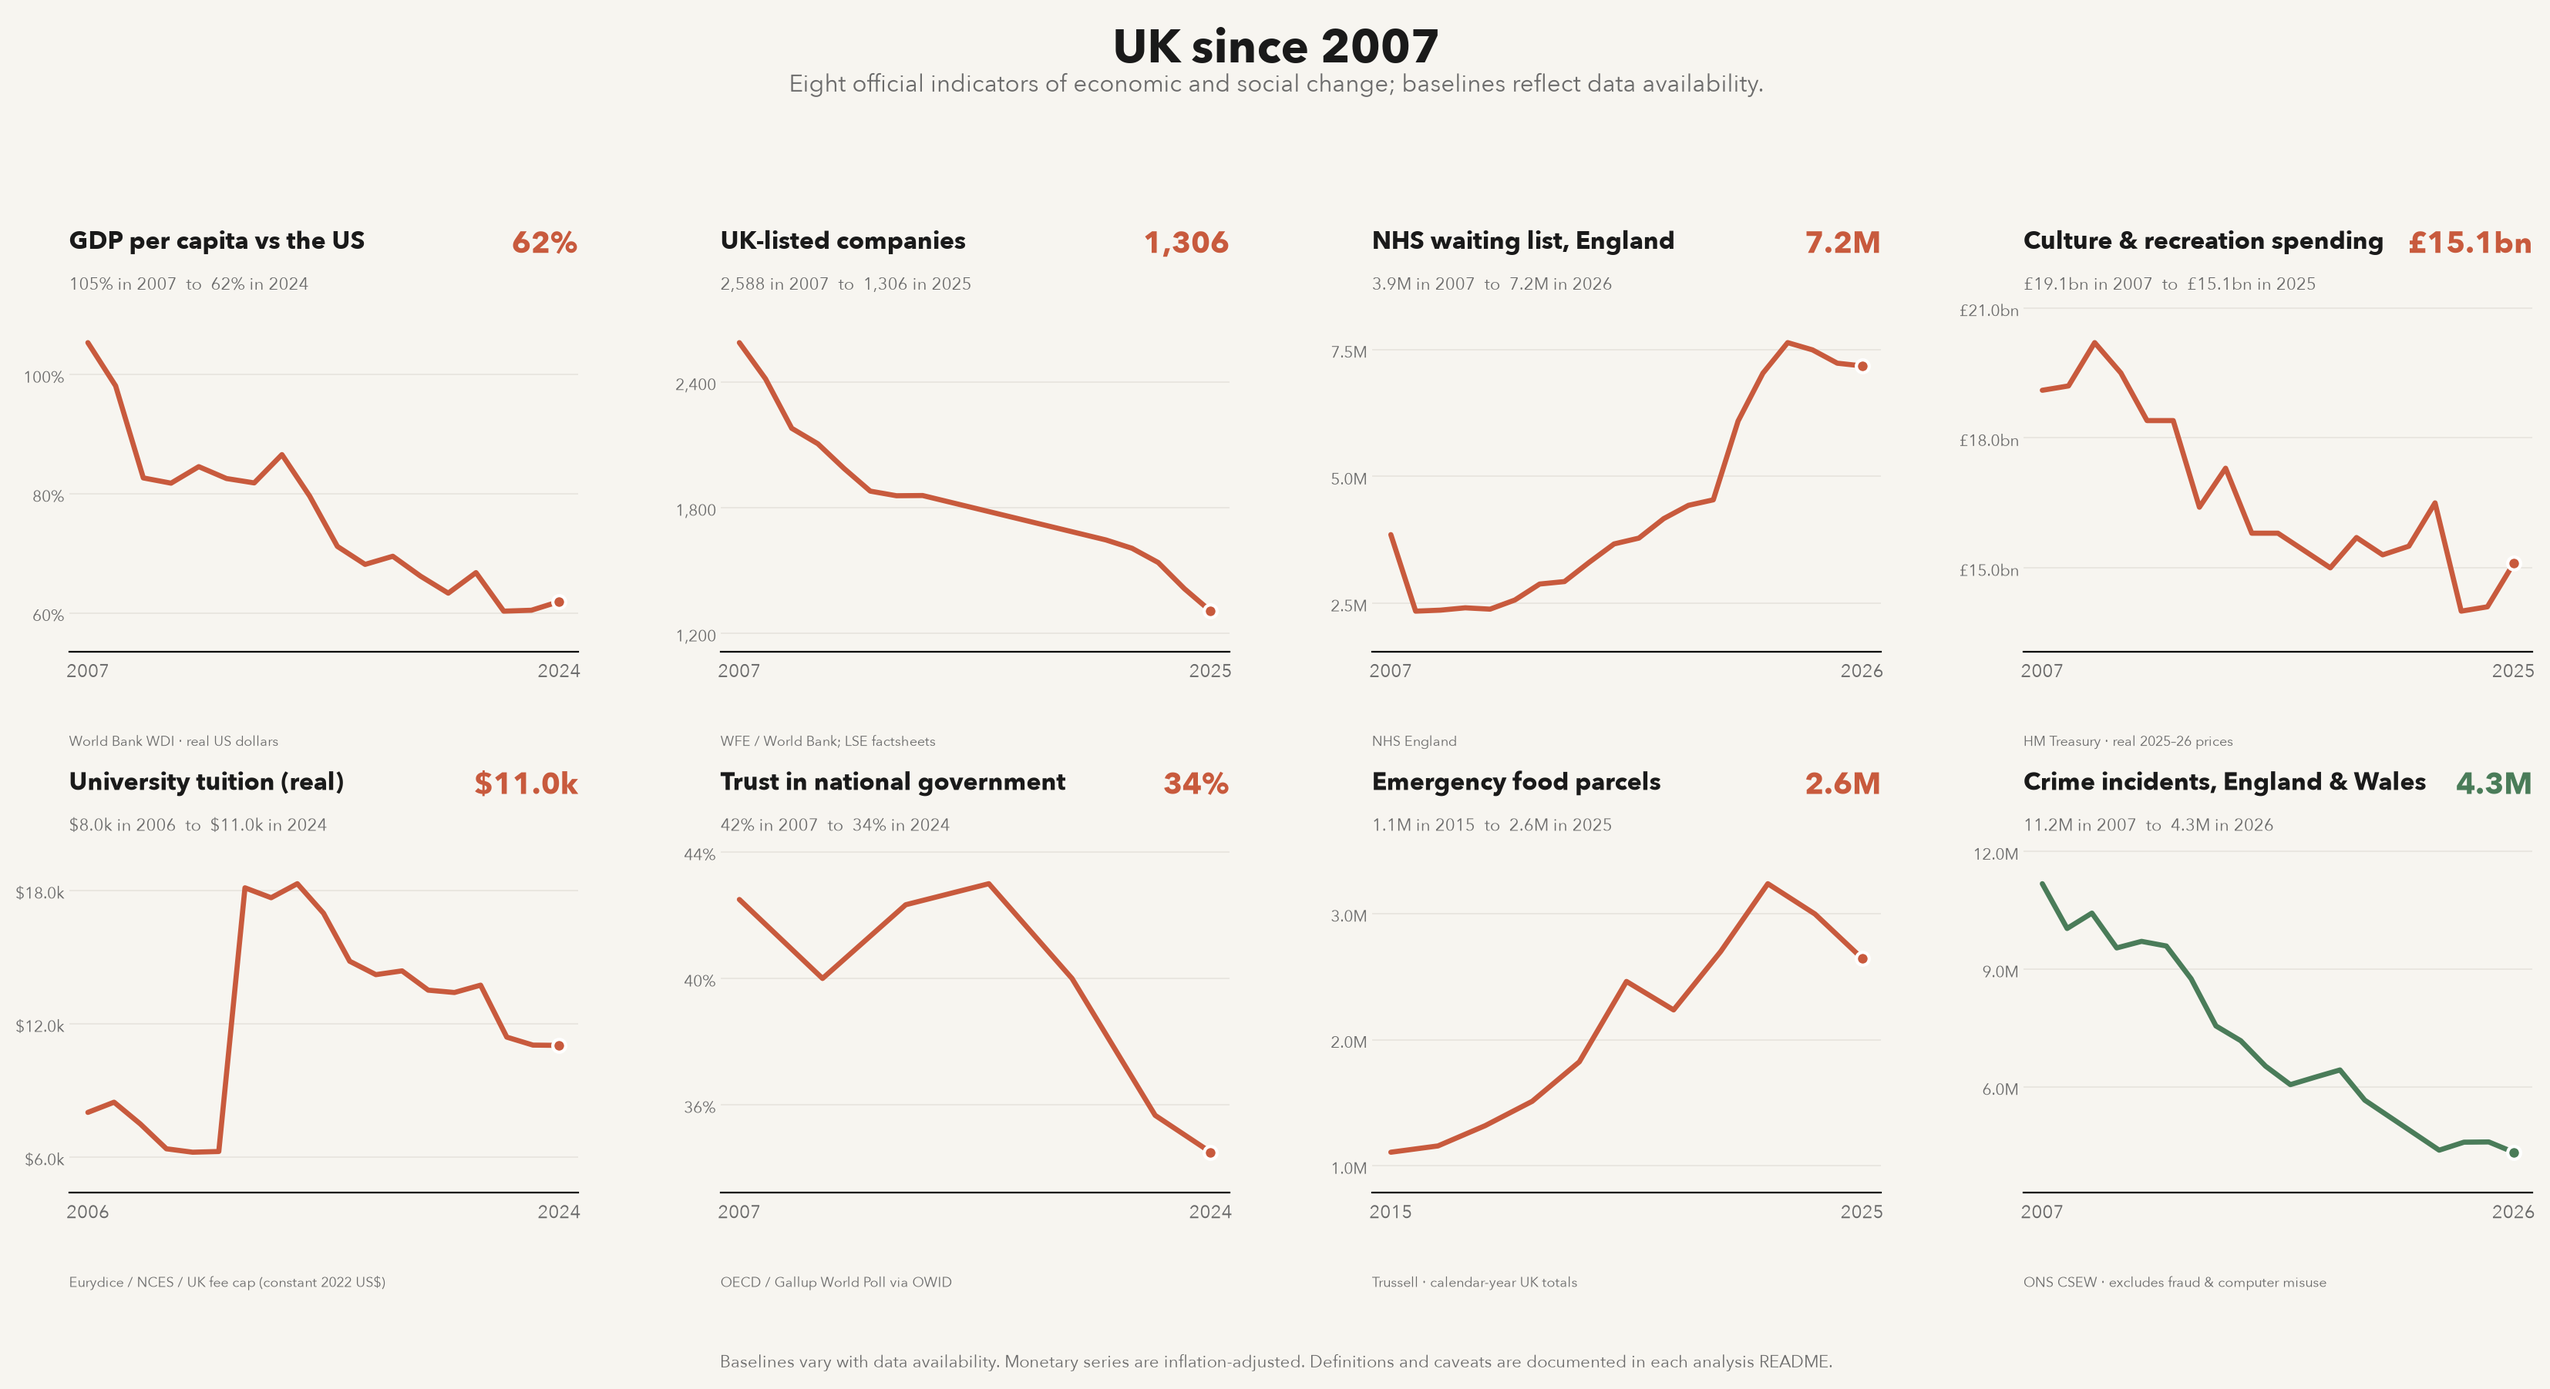
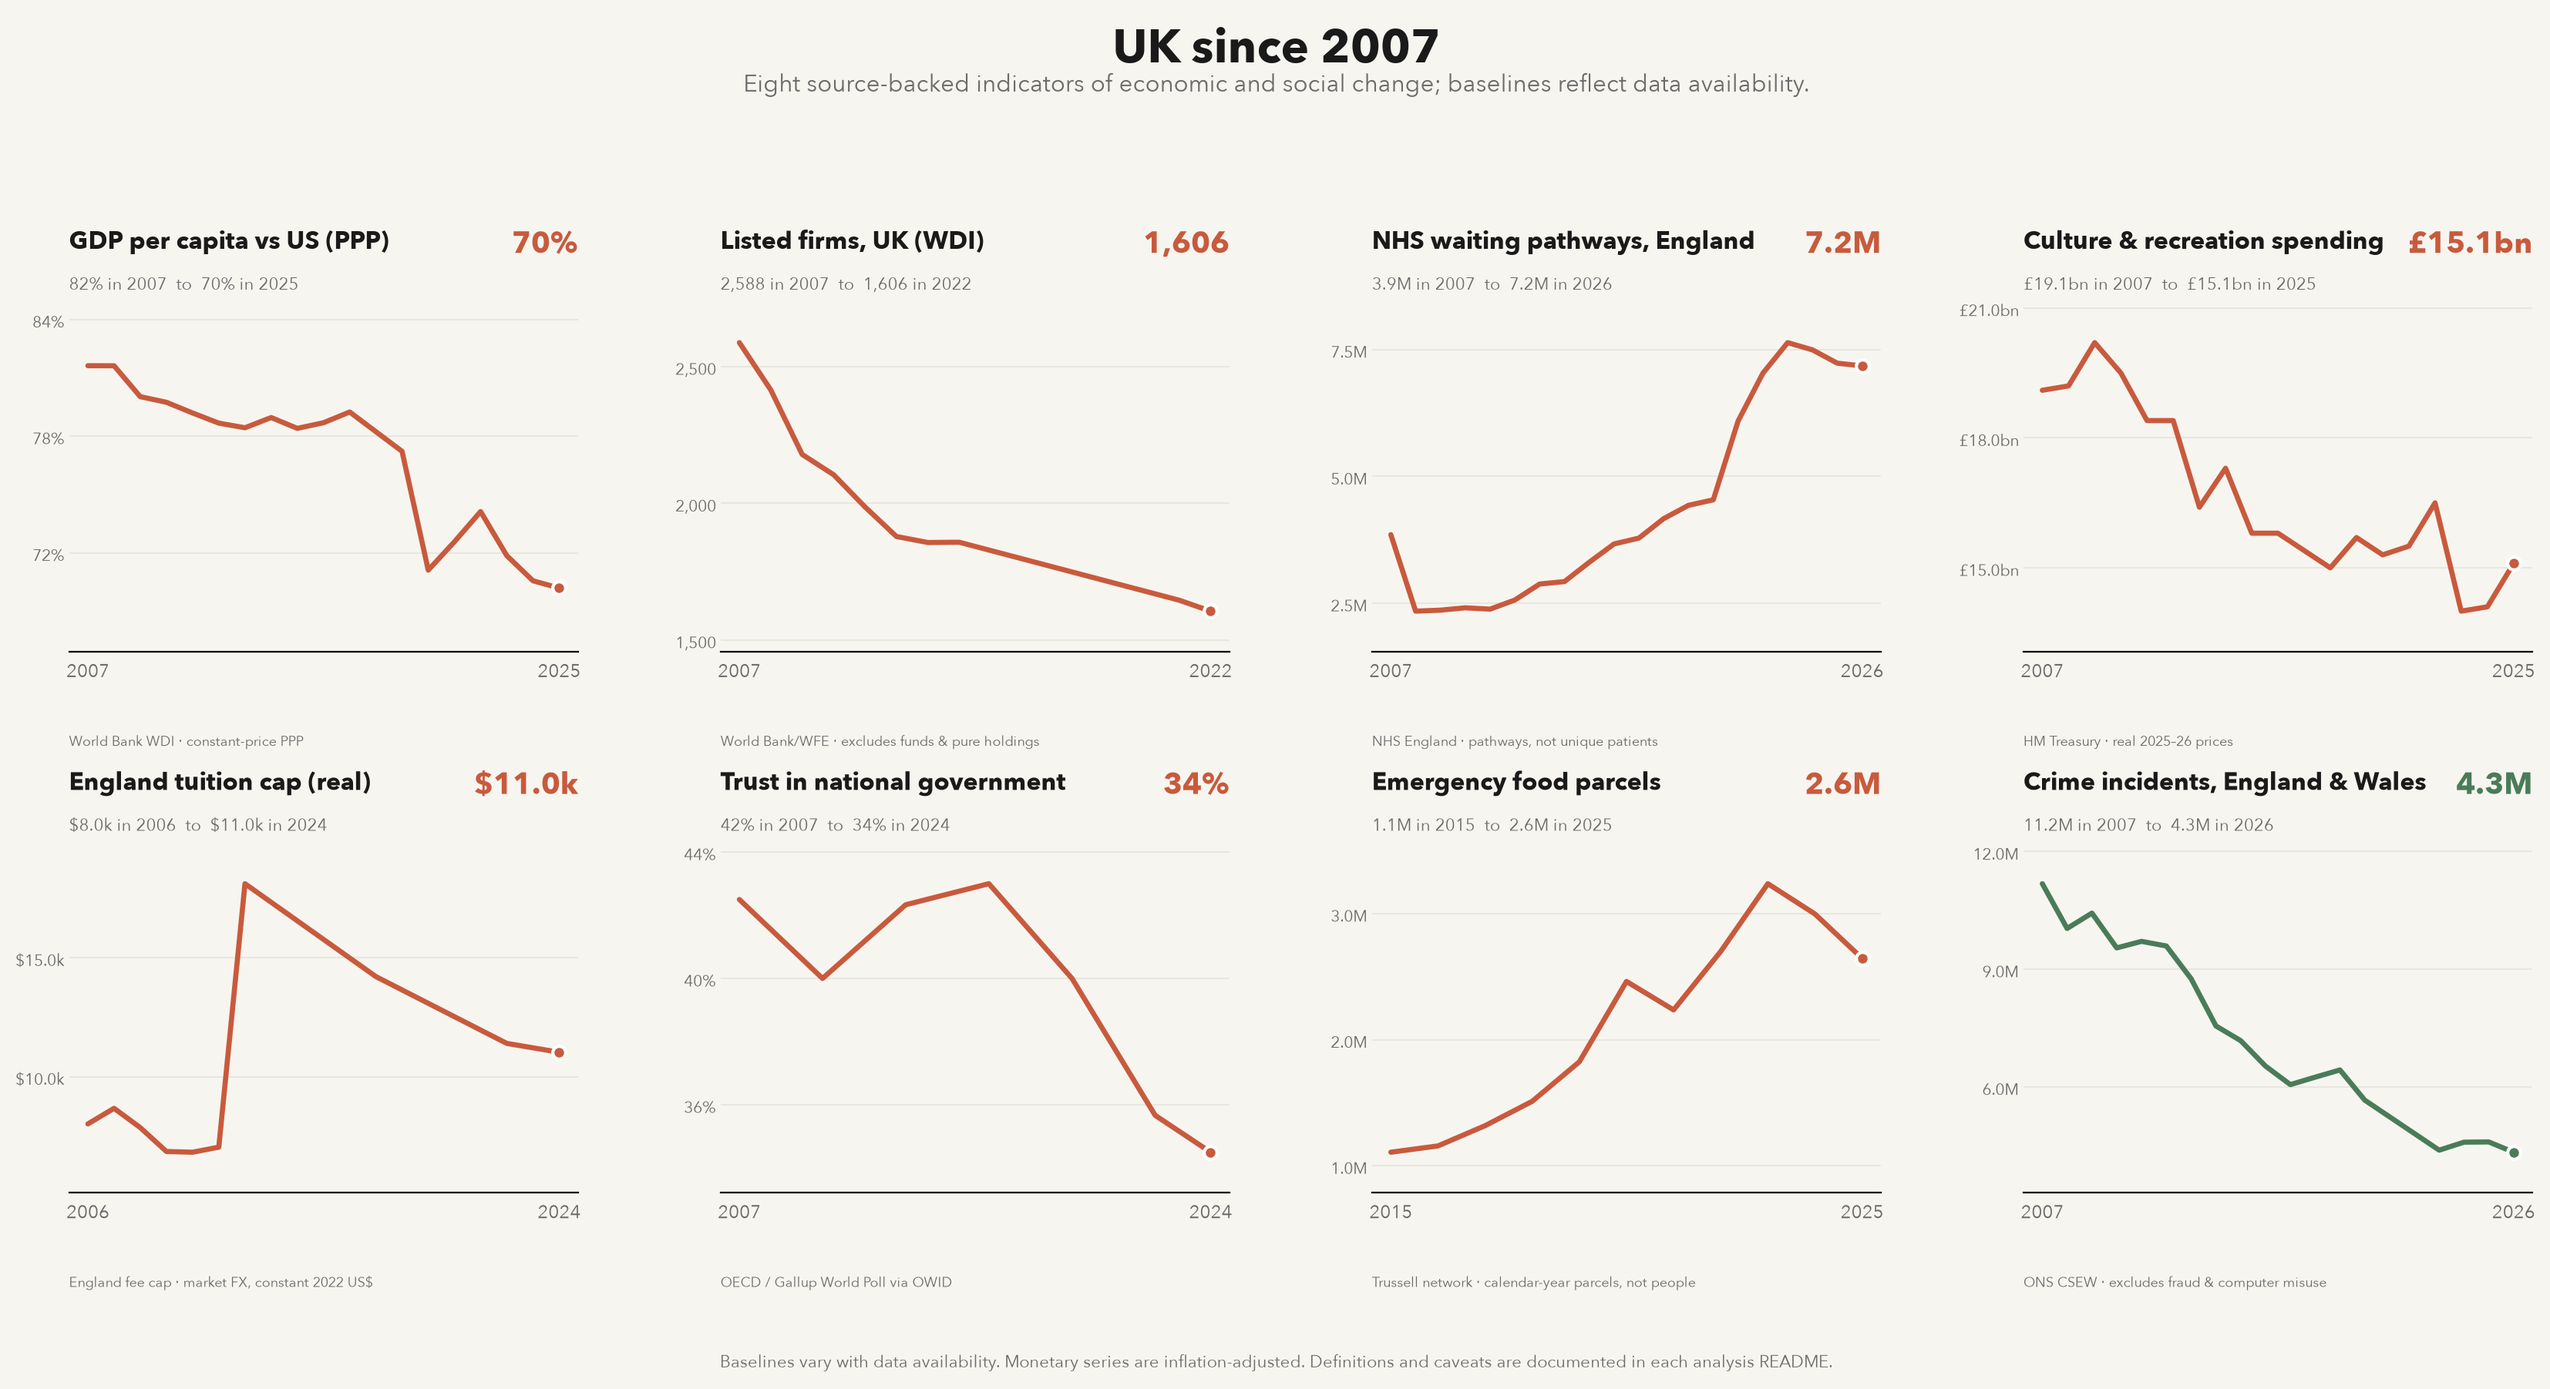
Keep overview comparisons consistent and disclose measure definitions

diff --git a/scorecard.py b/scorecard.py
@@ -32,7 +32,6 @@ REQUIRED_INPUTS = {
     DATA / "processed" / "tuition_history.csv": ".venv/bin/python -m tuition.build_history",
     DATA / "trust" / "trust_combined_long.csv": ".venv/bin/python -m trust_data.fetch_trust",
     DATA / "stock_market_size_wide.csv": ".venv/bin/python -m markets_data",
-    DATA / "uk_listed_companies_lse.csv": ".venv/bin/python -m markets_data.lse_factsheets",
     DATA / "austerity_spending.csv": ".venv/bin/python -m austerity_data",
     DATA / "food_bank_calendar_year.csv": ".venv/bin/python -m foodbank_data",
     DATA / "crime_csew_long.csv": ".venv/bin/python -m crime_data",
@@ -68,7 +67,7 @@ def _year(s):
 # ── One loader per panel -> (xs, ys) sorted by x ─────────────────────────────
 def gdp_vs_us():
     r = _rows(DATA / "europe_combined_wide.csv")
-    M = "gdp_per_capita_real_usd"
+    M = "gdp_per_capita_ppp_constant"
     uk = {int(x["year"]): float(x[M]) for x in r if x["country"] == "United Kingdom" and x.get(M)}
     us = {int(x["year"]): float(x[M]) for x in r if x["country"] == "United States" and x.get(M)}
     ys = sorted(set(uk) & set(us))
@@ -78,7 +77,7 @@ def gdp_vs_us():
 def nhs_england():
     r = _rows(OUT / "nhs" / "nhs_waiting_times.csv")
     pts = {}
-    for x in r:
+    for x in sorted(r, key=lambda x: x["date"]):
         if x["nation_code"] == "ENG" and x["metric"] == "rtt_waiting_list_total" and x.get("value"):
             y = _year(x["date"])
             if y:
@@ -105,17 +104,6 @@ def uk_listed_companies():
     r = _rows(DATA / "stock_market_size_wide.csv")
     pts = {int(x["year"]): float(x["listed_domestic_companies"]) for x in r
            if x["region"] == "United Kingdom" and x.get("listed_domestic_companies")}
-    # The World Bank/WFE "listed domestic companies" series ends at 2022; extend it with the
-    # UK-domiciled count (Main Market + AIM) read straight from the LSE factsheets, which joins
-    # the WB series to within <1% at the 2022 overlap (WB 1,606 vs LSE 1,619).
-    lse_path = DATA / "uk_listed_companies_lse.csv"
-    if lse_path.exists() and pts:
-        wb_last = max(pts)
-        for x in _rows(lse_path):
-            if x["metric"] == "lse_companies_uk" and x.get("value"):
-                y = int(x["year"])
-                if y > wb_last:
-                    pts[y] = float(x["value"])
     ys = sorted(pts)
     return ys, [pts[y] for y in ys]
 
@@ -158,20 +146,20 @@ def crime_incidents():
 # source, start year. Baselines vary because the official comparable series do.
 
 PANELS = [
-    ("GDP per capita vs the US", gdp_vs_us, lambda v: f"{v:.0f}%", +1,
-     "World Bank WDI · real US dollars", 2007),
-    ("UK-listed companies", uk_listed_companies, lambda v: f"{v:,.0f}", +1,
-     "WFE / World Bank; LSE factsheets", 2007),
-    ("NHS waiting list, England", nhs_england, lambda v: f"{v/1e6:.1f}M", -1,
-     "NHS England", 2007),
+    ("GDP per capita vs US (PPP)", gdp_vs_us, lambda v: f"{v:.0f}%", +1,
+     "World Bank WDI · constant-price PPP", 2007),
+    ("Listed firms, UK (WDI)", uk_listed_companies, lambda v: f"{v:,.0f}", +1,
+     "World Bank/WFE · excludes funds & pure holdings", 2007),
+    ("NHS waiting pathways, England", nhs_england, lambda v: f"{v/1e6:.1f}M", -1,
+     "NHS England · pathways, not unique patients", 2007),
     ("Culture & recreation spending", culture_spending, lambda v: f"£{v:.1f}bn", +1,
      "HM Treasury · real 2025–26 prices", 2007),
-    ("University tuition (real)", tuition_real, lambda v: f"${v/1e3:.1f}k", -1,
-     "Eurydice / NCES / UK fee cap (constant 2022 US$)", 2006),
+    ("England tuition cap (real)", tuition_real, lambda v: f"${v/1e3:.1f}k", -1,
+     "England fee cap · market FX, constant 2022 US$", 2006),
     ("Trust in national government", trust_govt, lambda v: f"{v:.0f}%", +1,
      "OECD / Gallup World Poll via OWID", 2007),
     ("Emergency food parcels", food_bank_parcels, lambda v: f"{v/1e6:.1f}M", -1,
-     "Trussell · calendar-year UK totals", 2015),
+     "Trussell network · calendar-year parcels, not people", 2015),
     ("Crime incidents, England & Wales", crime_incidents, lambda v: f"{v/1e6:.1f}M", -1,
      "ONS CSEW · excludes fraud & computer misuse", 2007),
 ]
@@ -181,8 +169,7 @@ def _panel(ax, title, loader, fmt, good_dir, source, start):
     xs, ys = loader()
     pts = [(x, y) for x, y in zip(xs, ys) if x >= start]
     if not pts:
-        ax.set_axis_off()
-        return
+        raise ValueError(f"{title}: no observations from {start} onward")
     xs, ys = [p[0] for p in pts], [p[1] for p in pts]
     change = ys[-1] - ys[0]
     worse = (good_dir == +1 and change < 0) or (good_dir == -1 and change > 0)
@@ -239,13 +226,18 @@ def main() -> int:
         return 2
 
     fig, axes = plt.subplots(2, 4, figsize=(17, 9))
-    for ax, panel in zip(axes.flat, PANELS):
-        _panel(ax, *panel)
+    try:
+        for ax, panel in zip(axes.flat, PANELS):
+            _panel(ax, *panel)
+    except ValueError as error:
+        plt.close(fig)
+        print(f"scorecard input error: {error}", file=sys.stderr)
+        return 2
 
     fig.suptitle("UK since 2007",
                  fontsize=22, fontweight="bold", y=0.99)
     fig.text(0.5, 0.935,
-             "Eight official indicators of economic and social change; "
+             "Eight source-backed indicators of economic and social change; "
              "baselines reflect data availability.",
              ha="center", fontsize=11, color=MUTED)
     fig.text(0.5, 0.015,

diff --git a/tests/test_scorecard.py b/tests/test_scorecard.py
@@ -81,3 +81,53 @@ def test_main_reports_all_missing_inputs(tmp_path, monkeypatch, capsys):
     stderr = capsys.readouterr().err
     assert "a.csv" in stderr and "build-a" in stderr
     assert "b.csv" in stderr and "build-b" in stderr
+
+
+def test_nhs_annual_snapshot_uses_latest_date_not_input_order(monkeypatch):
+    monkeypatch.setattr(scorecard, "_rows", lambda path: [
+        {"nation_code": nation, "metric": "rtt_waiting_list_total", "date": date, "value": value}
+        for nation, date, value in (
+            ("ENG", "2025-12-31", "7000000"),
+            ("ENG", "2025-01-31", "7500000"),
+            ("WLS", "2025-12-31", "800000"),
+        )
+    ])
+    assert scorecard.nhs_england() == ([2025], [7_000_000])
+
+
+def test_gdp_comparison_uses_constant_ppp_and_shared_years(monkeypatch):
+    monkeypatch.setattr(scorecard, "_rows", lambda path: [
+        {"country": country, "year": year, "gdp_per_capita_ppp_constant": ppp,
+         "gdp_per_capita_real_usd": market}
+        for country, year, ppp, market in (
+            ("United Kingdom", 2025, "60", "100"),
+            ("United States", 2024, "80", "100"),
+            ("United Kingdom", 2024, "60", "50"),
+            ("United States", 2007, "60", "50"),
+            ("United Kingdom", 2007, "48", "100"),
+        )
+    ])
+    assert scorecard.gdp_vs_us() == ([2007, 2024], [80.0, 75.0])
+
+
+def test_listed_company_count_does_not_splice_in_a_different_definition(tmp_path, monkeypatch):
+    (tmp_path / "uk_listed_companies_lse.csv").touch()
+    monkeypatch.setattr(scorecard, "DATA", tmp_path)
+    monkeypatch.setattr(scorecard, "_rows", lambda path: (
+        [{"region": "United Kingdom", "year": year, "listed_domestic_companies": value}
+         for year, value in ((2007, "2588"), (2022, "1606"))]
+        if path.name == "stock_market_size_wide.csv"
+        else [{"year": "2025", "metric": "lse_companies_uk", "value": "1306"}]
+    ))
+    assert scorecard.uk_listed_companies() == ([2007, 2022], [2588.0, 1606.0])
+
+
+def test_main_rejects_empty_panel_instead_of_saving_incomplete_scorecard(tmp_path, monkeypatch, capsys):
+    monkeypatch.setattr(scorecard, "REQUIRED_INPUTS", {})
+    monkeypatch.setattr(scorecard, "OUT", tmp_path)
+    monkeypatch.setattr(scorecard, "PANELS", [
+        ("Missing metric", lambda: ([], []), str, 0, "Source", 2007),
+    ])
+    assert scorecard.main() == 2
+    assert "Missing metric: no observations from 2007 onward" in capsys.readouterr().err
+    assert not (tmp_path / "uk_decline_scorecard.png").exists()

diff --git a/crime_data/nations.py b/crime_data/nations.py
@@ -163,7 +163,7 @@ def _extract_population(workbook: bytes, sheet_name: str) -> dict[int, int]:
 
 
 def _extract_psni_counts(report: bytes) -> dict[int, int]:
-    """Recover the exact integer series from the bars in PSNI's official PDF chart."""
+    """Reconstruct rounded integer counts from PSNI's published vector-chart bars."""
     try:
         import fitz
     except ImportError as exc:  # pragma: no cover - dependency error is environment-specific

diff --git a/crime_data/charts.py b/crime_data/charts.py
@@ -363,7 +363,7 @@ def chart_homicide_nations(df, out_dir):
     fig.text(
         0.06, 0.052,
         "Periods: England & Wales and Scotland = financial-year ends; "
-        "Northern Ireland = calendar years.",
+        "Northern Ireland = calendar years. NI counts are chart-derived.",
         ha="left", fontsize=7.5, color=MUTED,
     )
     return _save(fig, out_dir, "crime_homicide_nations.png")

diff --git a/README.md b/README.md
@@ -1,6 +1,6 @@
 <div align="center">
   <h1>Social, Economic, and Political Change in the United Kingdom</h1>
-  <p><strong>Official data. Reproducible analysis. Long-run context.</strong></p>
+  <p><strong>Source-backed data. Reproducible analysis. Long-run context.</strong></p>
   <p>Comparing the UK with the United States and European peers.</p>
   <p>
     <a href="#uk-since-2007">Overview</a> ·
@@ -13,12 +13,28 @@
 
 ## UK since 2007
 
-The overview combines eight comparable official series. It uses 2007 as the common framing;
-each panel uses the nearest appropriate baseline available from its source.
+The overview combines eight source-backed indicators, including official statistics,
+charity administrative counts and a constructed tuition-fee series. It uses 2007 as
+the common framing; each panel uses its own available baseline and latest year.
+It is not a composite index or an exhaustive measure of UK performance. Colours
+describe the selected direction of change between endpoints, not the latest annual trend.
 
 <p align="center">
-  <img src="outputs/uk_decline_scorecard.png" width="1200" alt="Eight official indicators showing change in the UK since 2007">
+  <img src="outputs/uk_decline_scorecard.png" width="1200" alt="Eight source-backed indicators showing change in the UK since 2007">
 </p>
+
+The GDP comparison uses **constant-price purchasing-power parity (PPP)**, not
+market-exchange-rate dollars, so sterling movements are not mistaken for relative
+changes in economic output. The tuition panel is an **England undergraduate fee-cap
+series**, converted at annual market exchange rates and deflated with US CPI to
+2022 dollars—not average UK tuition or a domestic UK purchasing-power measure.
+NHS waiting counts are **treatment
+pathways**, not unique patients, and Trussell figures count **parcels distributed by
+its network**, not unique recipients or all UK food-bank provision. The listed-firm
+panel retains the **World Bank/WFE series only**, including domestic companies and
+foreign companies listed exclusively on those exchanges, but excluding funds and
+pure holding companies. It ends earlier than other panels: the newer LSE
+UK-domiciled counts have a different definition and are no longer spliced onto it.
 
 The crime panel shows **estimated incidents in England & Wales, excluding fraud and
 computer misuse**, from ONS Crime Survey Table A1a: **11.2 million in the year ending
@@ -86,6 +102,10 @@ After generating the input CSVs, rebuild the overview image without re-fetching 
 ```
 
 ## Data integrity
-No API keys are required, and no data is fabricated. Downloaded raw data lives under `data/`
-(git-ignored, regenerable); the curated, citation-bearing figures under `outputs/` are the
-committed showcase. Values have been spot-checked against the live official APIs.
+No API keys are required, and source observations are not fabricated. Derived measures,
+source-published estimates, method breaks and coverage limitations are documented in
+each analysis. Downloaded/intermediate data generally lives under `data/`
+(git-ignored, regenerable); cited historical input snapshots are tracked where needed.
+The curated figures under `outputs/` are the committed showcase. Targeted observations
+have been checked against primary sources; this is not independent verification of
+every observation in every dataset.

diff --git a/crime_data/README.md b/crime_data/README.md
@@ -66,7 +66,9 @@ official series.
 - **Scotland:** Scottish Government *Homicide in Scotland*, divided by ONS mid-year
   population estimates.
 - **Northern Ireland:** PSNI *Trends in Police Recorded Crime*, divided by ONS mid-year
-  population estimates.
+  population estimates. Counts are reconstructed from the PDF's vector-bar heights
+  and rounded to integers, not read from a machine-readable table. Treat this as
+  chart-derived data, with potential extraction/rounding error.
 - **Coverage:** reporting year 2000 to latest available.
 - Reporting periods differ slightly: England & Wales and Scotland use financial years
   ending in the labelled year, while the PSNI chart uses calendar years. Scotland's
